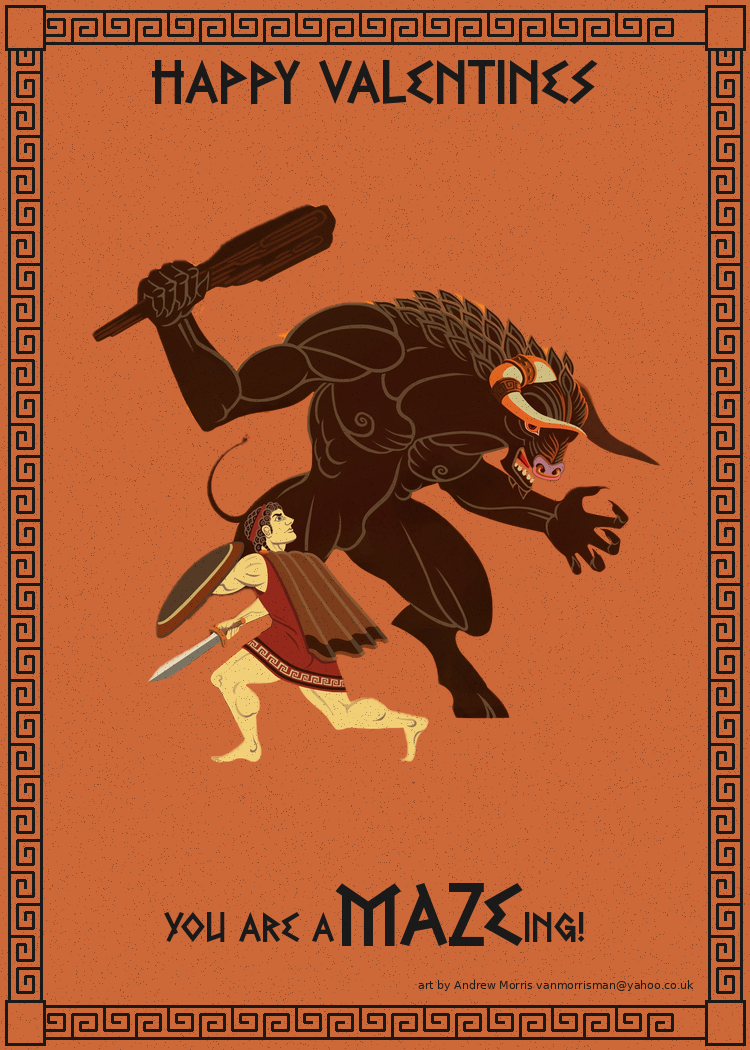
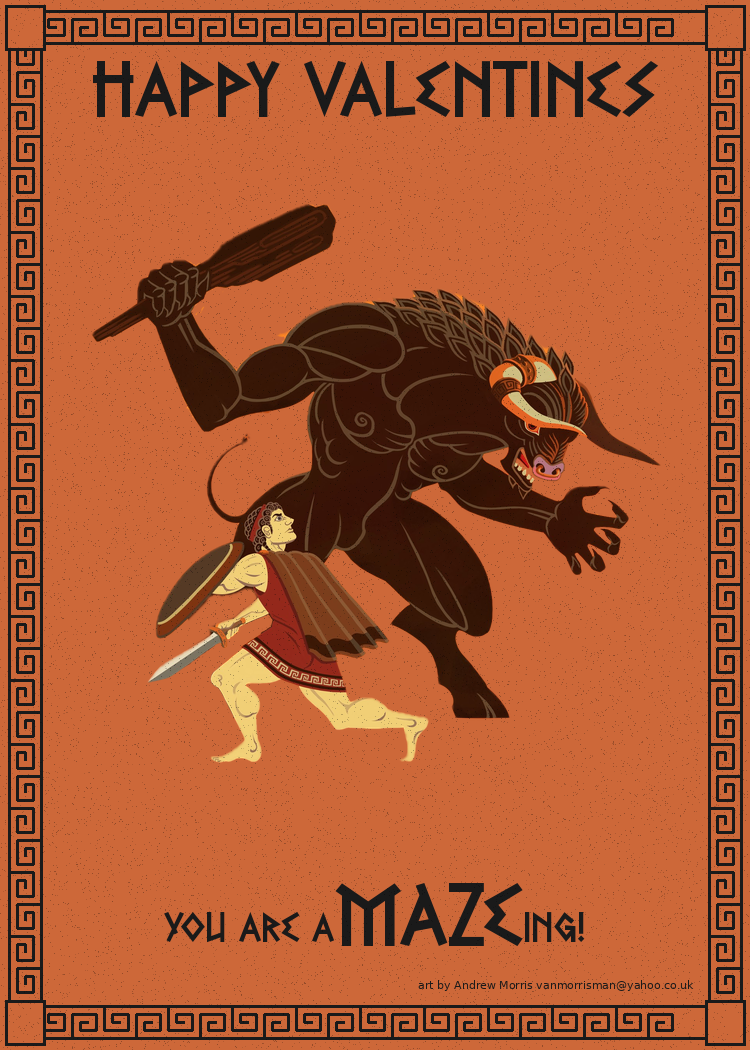
Happy Valentines: 80pt for obvious size increase

Changed region(s): [[0.1227, 0.0305, 0.8893, 0.1219]]

diff --git a/src/greek_design_system.py b/src/greek_design_system.py
@@ -464,7 +464,7 @@ def generate_greek_card_front(
 
     # Add "Happy Valentines" at the top (AFTER minotaur so it's not covered)
     try:
-        top_font = ImageFont.truetype(greek_font_path, 63)  # 15% bigger than 55
+        top_font = ImageFont.truetype(greek_font_path, 80)  # Much bigger
     except:
         top_font = ImageFont.load_default()
 
